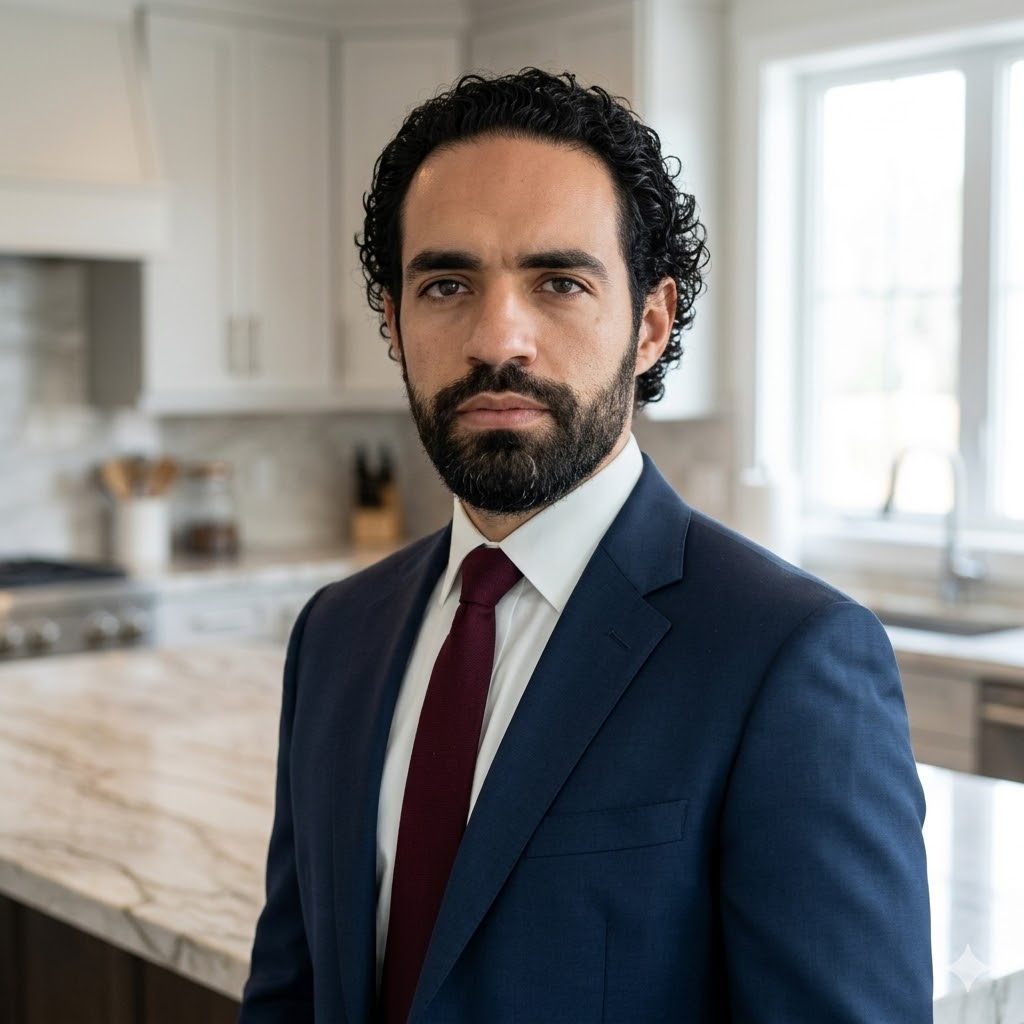
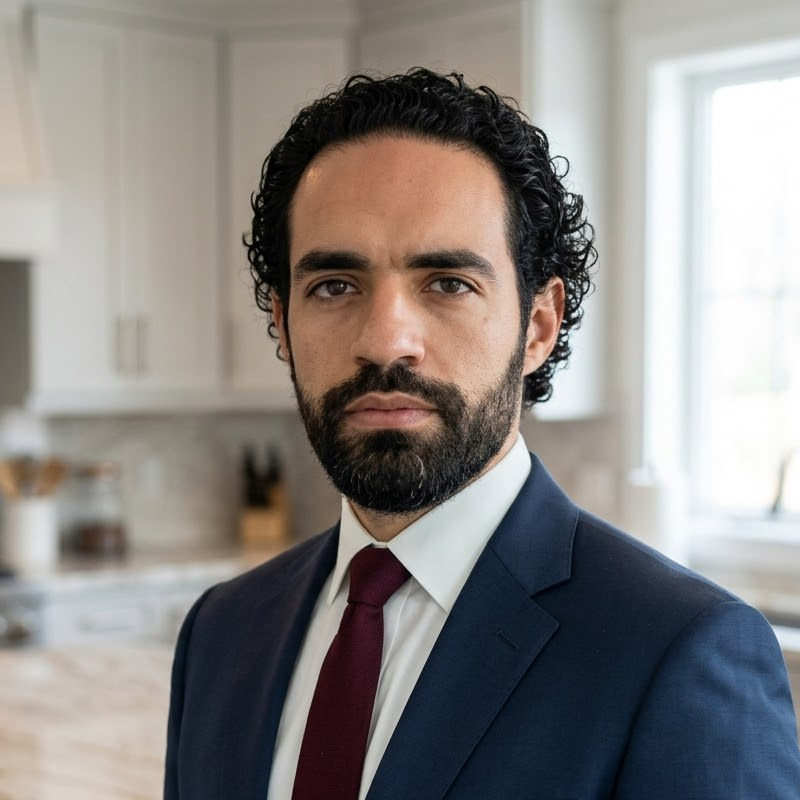
Restore circular bio photos with face-centered crops
Revert bio headshots to circles per request. Since the sources are square
(object-position is a no-op for square-in-square), re-cropped robert.jpg and
mohamed.jpg to 800x800 face-centered squares so the circular mask frames the
head-and-shoulders cleanly without clipping the face. CSS set to 240px
border-radius:50% in both the global rules and the two bio pages' inline styles.

diff --git a/css/legacytcp2.css b/css/legacytcp2.css
@@ -893,7 +893,7 @@ img[style*="border-radius:50%"] {
 .bio-photo-wrap img,
 .team-card img {
   border: 2px solid var(--navy) !important;
-  border-radius: 16px !important;
+  border-radius: 50% !important;
   box-shadow: 4px 4px 16px rgba(27,45,94,.2) !important;
   width: 240px !important;
   height: 240px !important;
@@ -1009,15 +1009,15 @@ img[src*="logo-footer"],
   box-shadow: none !important;
 }
 
-/* Team/bio photos — rounded square (square source portraits) */
+/* Team/bio photos — circle (face-centered square crops) */
 .bio-photo-wrap img {
-  border-radius: 16px !important;
+  border-radius: 50% !important;
   border: 5px solid var(--white) !important;
   box-shadow: 0 8px 32px rgba(27,45,94,.2) !important;
   width: 240px !important;
   height: 240px !important;
   object-fit: cover !important;
-  object-position: 50% 15% !important;
+  object-position: 50% 35% !important;
 }
 .team-card img {
   border-radius: 50% !important;

diff --git a/about-us/mohamed-dweidar/index.html b/about-us/mohamed-dweidar/index.html
@@ -44,8 +44,8 @@
       display: flex; justify-content: center;
     }
     .bio-photo-wrap img {
-      width: 260px; height: 260px; border-radius: 12px;
-      object-fit: cover; object-position: 50% 20%;
+      width: 240px; height: 240px; border-radius: 50%;
+      object-fit: cover; object-position: 50% 35%;
       border: 5px solid var(--white);
       box-shadow: 0 8px 32px rgba(27,45,94,.2);
     }

diff --git a/about-us/robert-r-buonanno-aif/index.html b/about-us/robert-r-buonanno-aif/index.html
@@ -44,8 +44,8 @@
       display: flex; justify-content: center;
     }
     .bio-photo-wrap img {
-      width: 260px; height: 260px; border-radius: 12px;
-      object-fit: cover; object-position: 50% 20%;
+      width: 240px; height: 240px; border-radius: 50%;
+      object-fit: cover; object-position: 50% 35%;
       border: 5px solid var(--white);
       box-shadow: 0 8px 32px rgba(27,45,94,.2);
     }